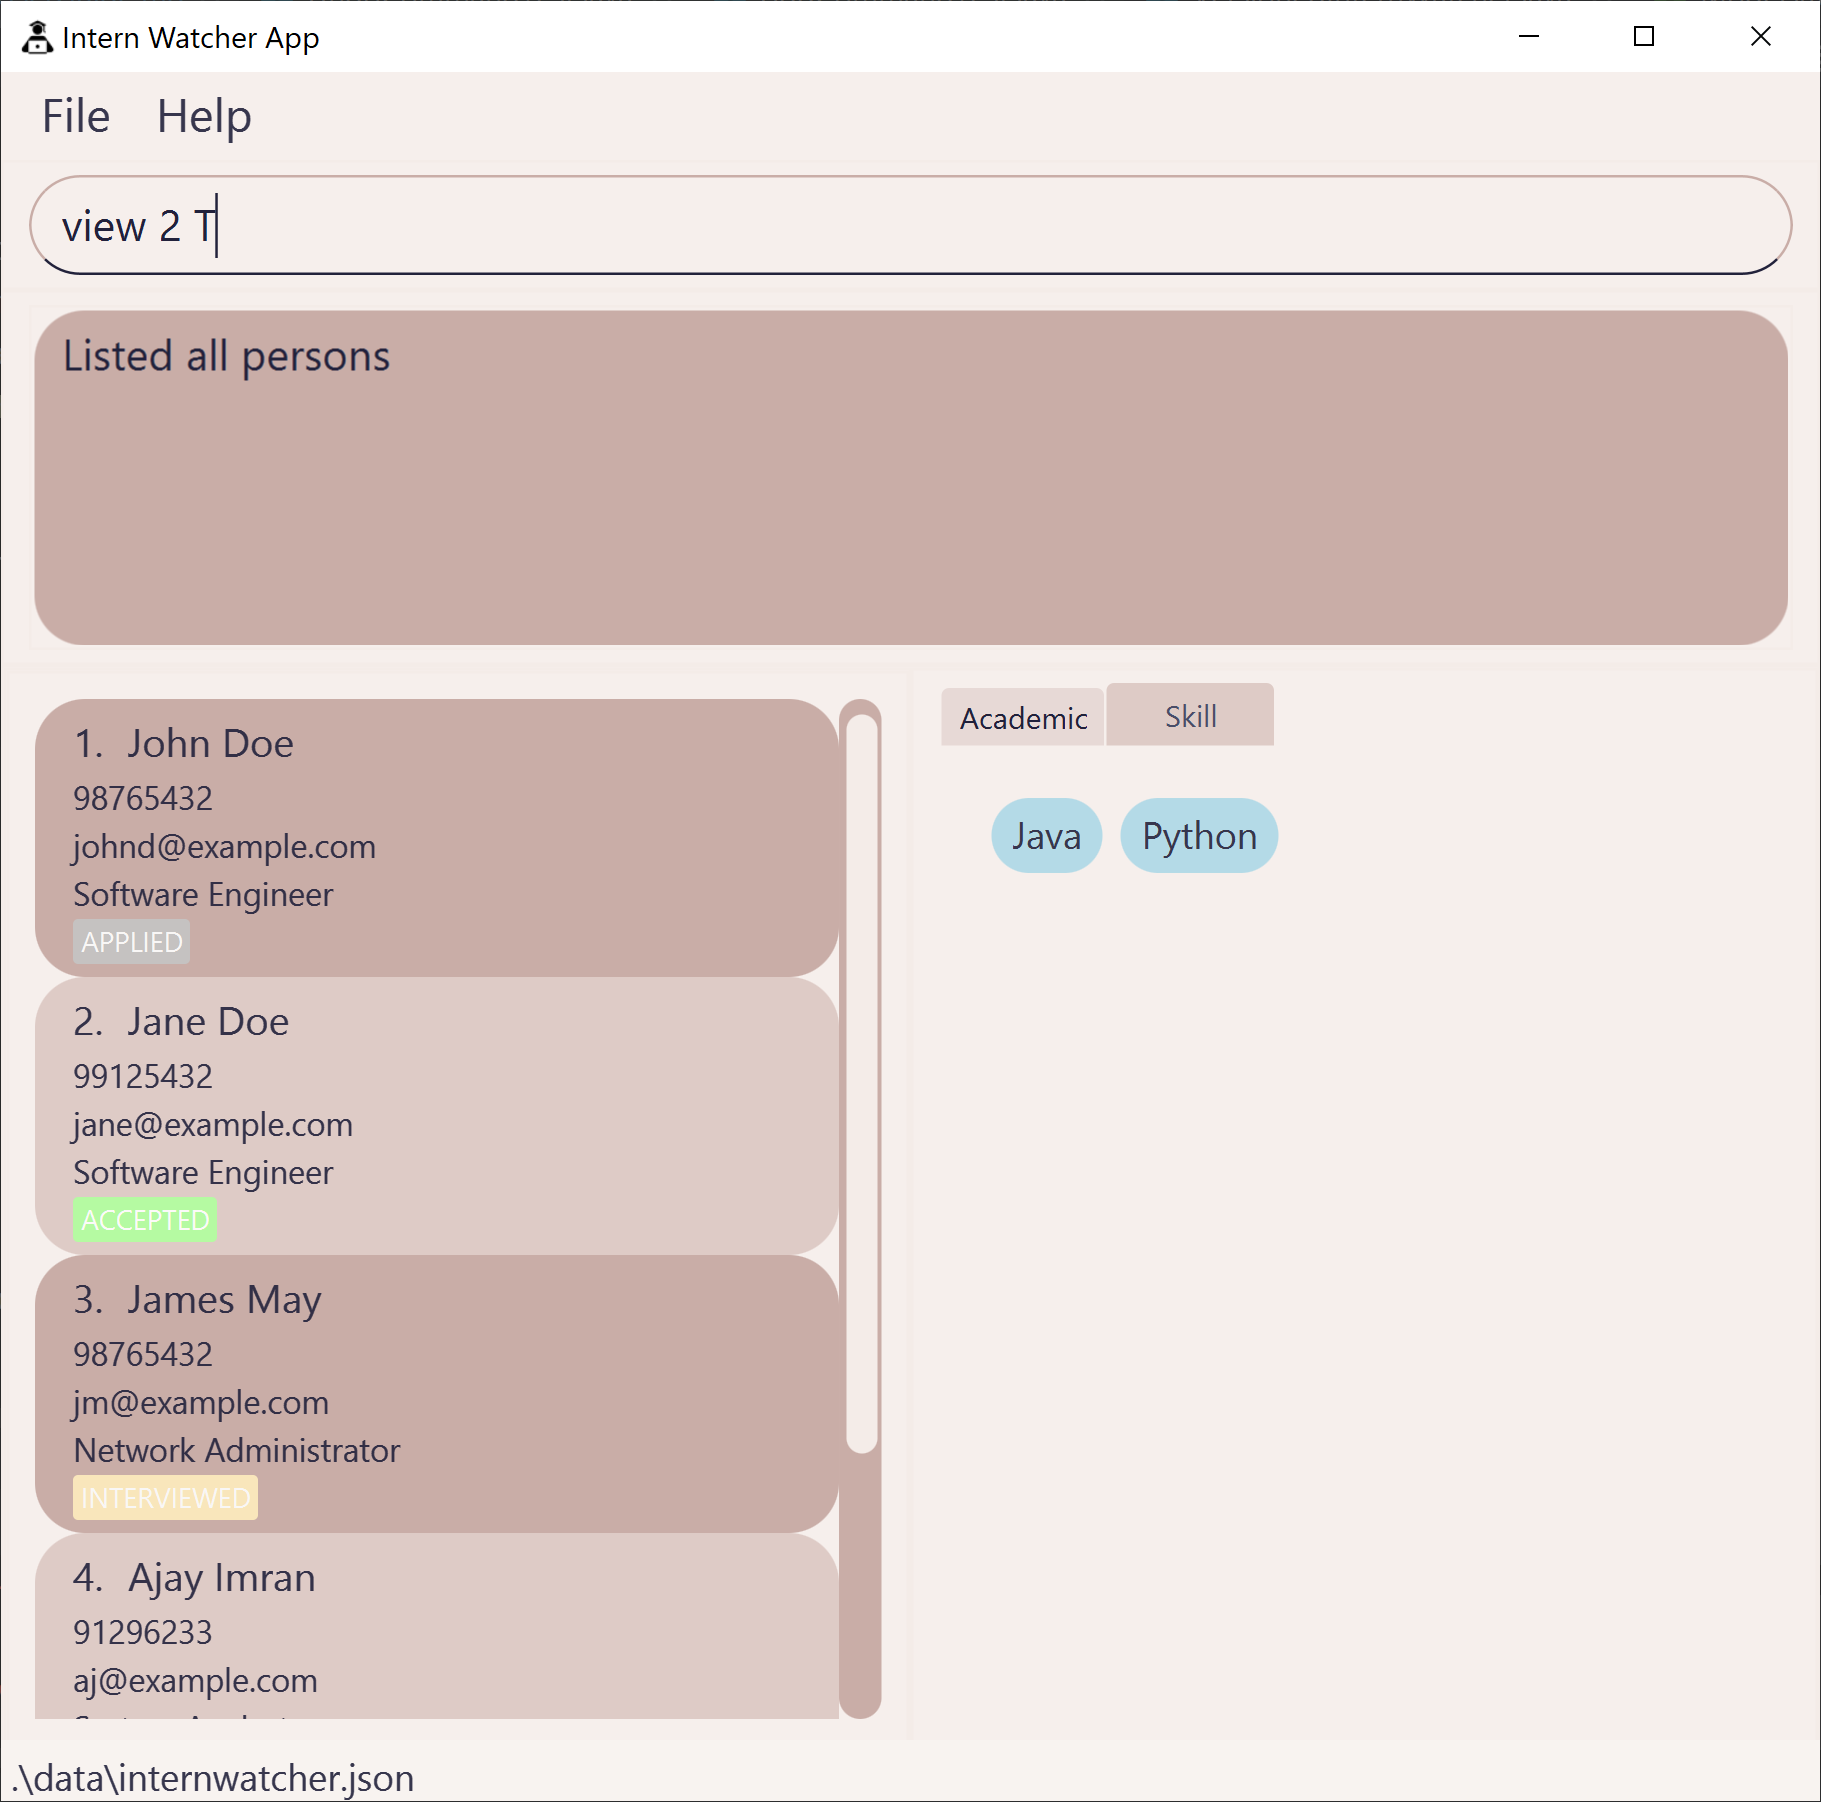
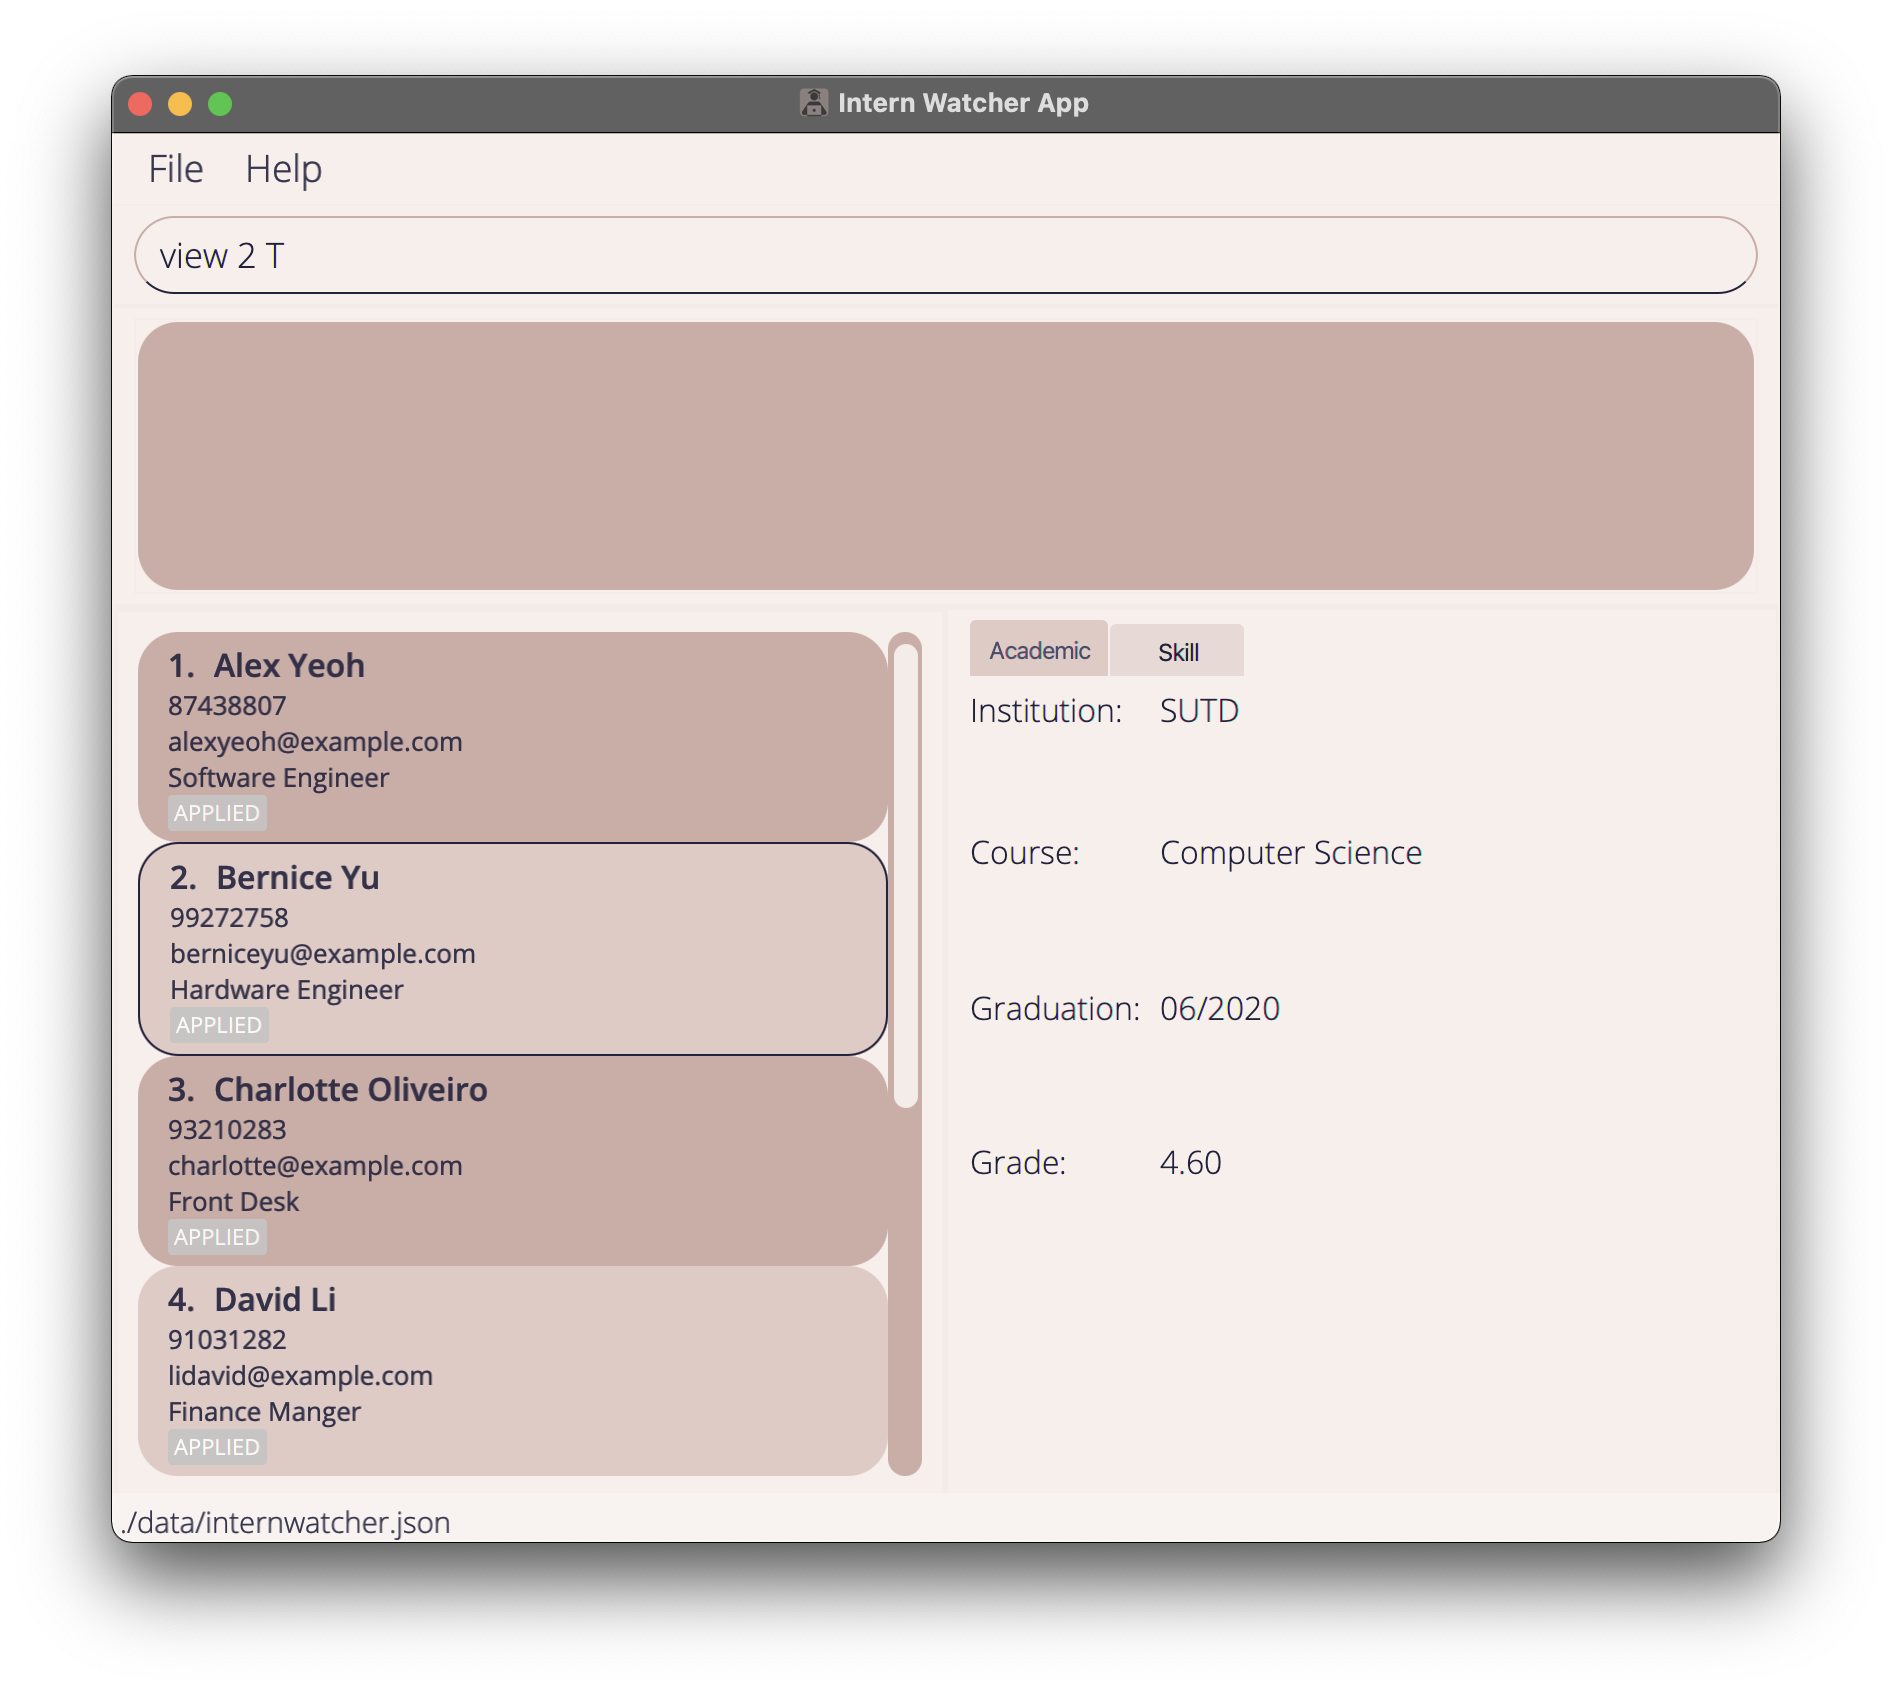
Update UG images to match sample data in jar file

diff --git a/docs/UserGuide.md b/docs/UserGuide.md
@@ -100,7 +100,7 @@ An applicant can have any number of skills (including 0)
 
 Examples:
 
-* `add n/Alex Yeoh p/98765432 e/johnd@example.com g/4.50 i/NTU c/CS y/06/2025 j/Software Engineer a/SCHEDULED s/Python s/Java` adds
+* `add n/Jonathan Tan p/86565432 e/jonathan_tan@example.com g/4.50 i/NTU c/Computer Science y/06/2025 j/Software Engineer a/SCHEDULED s/Python s/Java s/C` adds
  an applicant with the specified information.
   ![Add result](images/AddResult.png)
 
@@ -153,19 +153,7 @@ Examples:
 |---|---|
 |<img src="images/FilterBefore.png" alt="drawing" />|<img src="images/FilterSkillAfter.png" alt="drawing" />|
 
-* `filter g/4.60` will show applicants with a grade more than or equals 4.60.
-
-|Command|Effect|
-|---|---|
-|<img src="images/FilterGradeBefore.png" alt="drawing" />|<img src="images/FilterGradeAfter.png" alt="drawing" />|
-
-* `filter y/06/2022` will show applicants  with graduation date earlier than June 2022.
-
-|Command|Effect|
-|---|---|
-|<img src="images/FilterYearBefore.png" alt="drawing" />|<img src="images/FilterYearAfter.png" alt="drawing" />|
-
-* `filter s/Java y/06/2022 i/NUS` will show applicants that graduate earlier than June 2022, knows JAVA and is from NUS.
+* `filter s/HTML g/4.50 i/NTU` will show applicants that graduate earlier than June 2022, knows JAVA and is from NUS.
 
 |Command|Effect|
 |---|---|
@@ -187,7 +175,7 @@ Format:
     specifying any skills after it.
 
 Examples:
-*  `edit 1 p/91234567 e/johndoe@example.com` Edits the phone number and email address of the 1st applicant to be `91234567` and `johndoe@example.com` respectively.
+*  `edit 1 p/91234567 e/yeoh_alex@example.com` Edits the phone number and email address of the 1st applicant to be `91234567` and `yeoh_alex@example.com` respectively.
 
 |Command|Effect|
 |---|---|
@@ -223,19 +211,19 @@ Examples:
 
 |Command|Effect|
 |---|---|
-|<img src="images/DeleteBefore.png" alt="drawing" />|<img src="images/DeleteTwoAfter.png" alt="drawing" />|
+|<img src="images/DeleteTwoBefore.png" alt="drawing" />|<img src="images/DeleteTwoAfter.png" alt="drawing" />|
 
 * `list` followed by `delete ALL` deletes the all applicants in Intern Watcher. Effect is similar to `clear` when used in conjunction with `list`.
 
 |Command|Effect|
 |---|---|
-|<img src="images/DeleteBefore.png" alt="drawing" />|<img src="images/DeleteALLAfter.png" alt="drawing" />|
+|<img src="images/DeleteALLBefore.png" alt="drawing" />|<img src="images/DeleteALLAfter.png" alt="drawing" />|
 
-* `find Ali` followed by `delete 1` deletes the 1st applicant in the results of the `find` command.
+* `find David` followed by `delete 1` deletes the 1st applicant in the results of the `find` command.
 
 |Command|Effect|
 |---|---|
-|<img src="images/DeleteFindAli.png" alt="drawing" />|<img src="images/DeleteFindAliAfter.png" alt="drawing" />|
+|<img src="images/DeleteFindDavidBefore.png" alt="drawing" />|<img src="images/DeleteFindDavidAfter.png" alt="drawing" />|
 
 ### Locating applicants by name: `find`
 
@@ -299,7 +287,7 @@ Examples:
 |---|---|
 |<img src="images/RedoClearBefore.png" alt="drawing" />|<img src="images/RedoClearAfter.png" alt="drawing" />|
 
-* `undo` followed by `delete 2`. As the state after `delete` becomes the newest state, there are no undoable actions to be redone.
+* `redo` followed by `delete 2`. As the state after `delete` becomes the newest state, there are no undoable actions to be redone.
   ![ No action to redo](images/NoRedo.png)
 
 ### Exiting the program : `exit`
